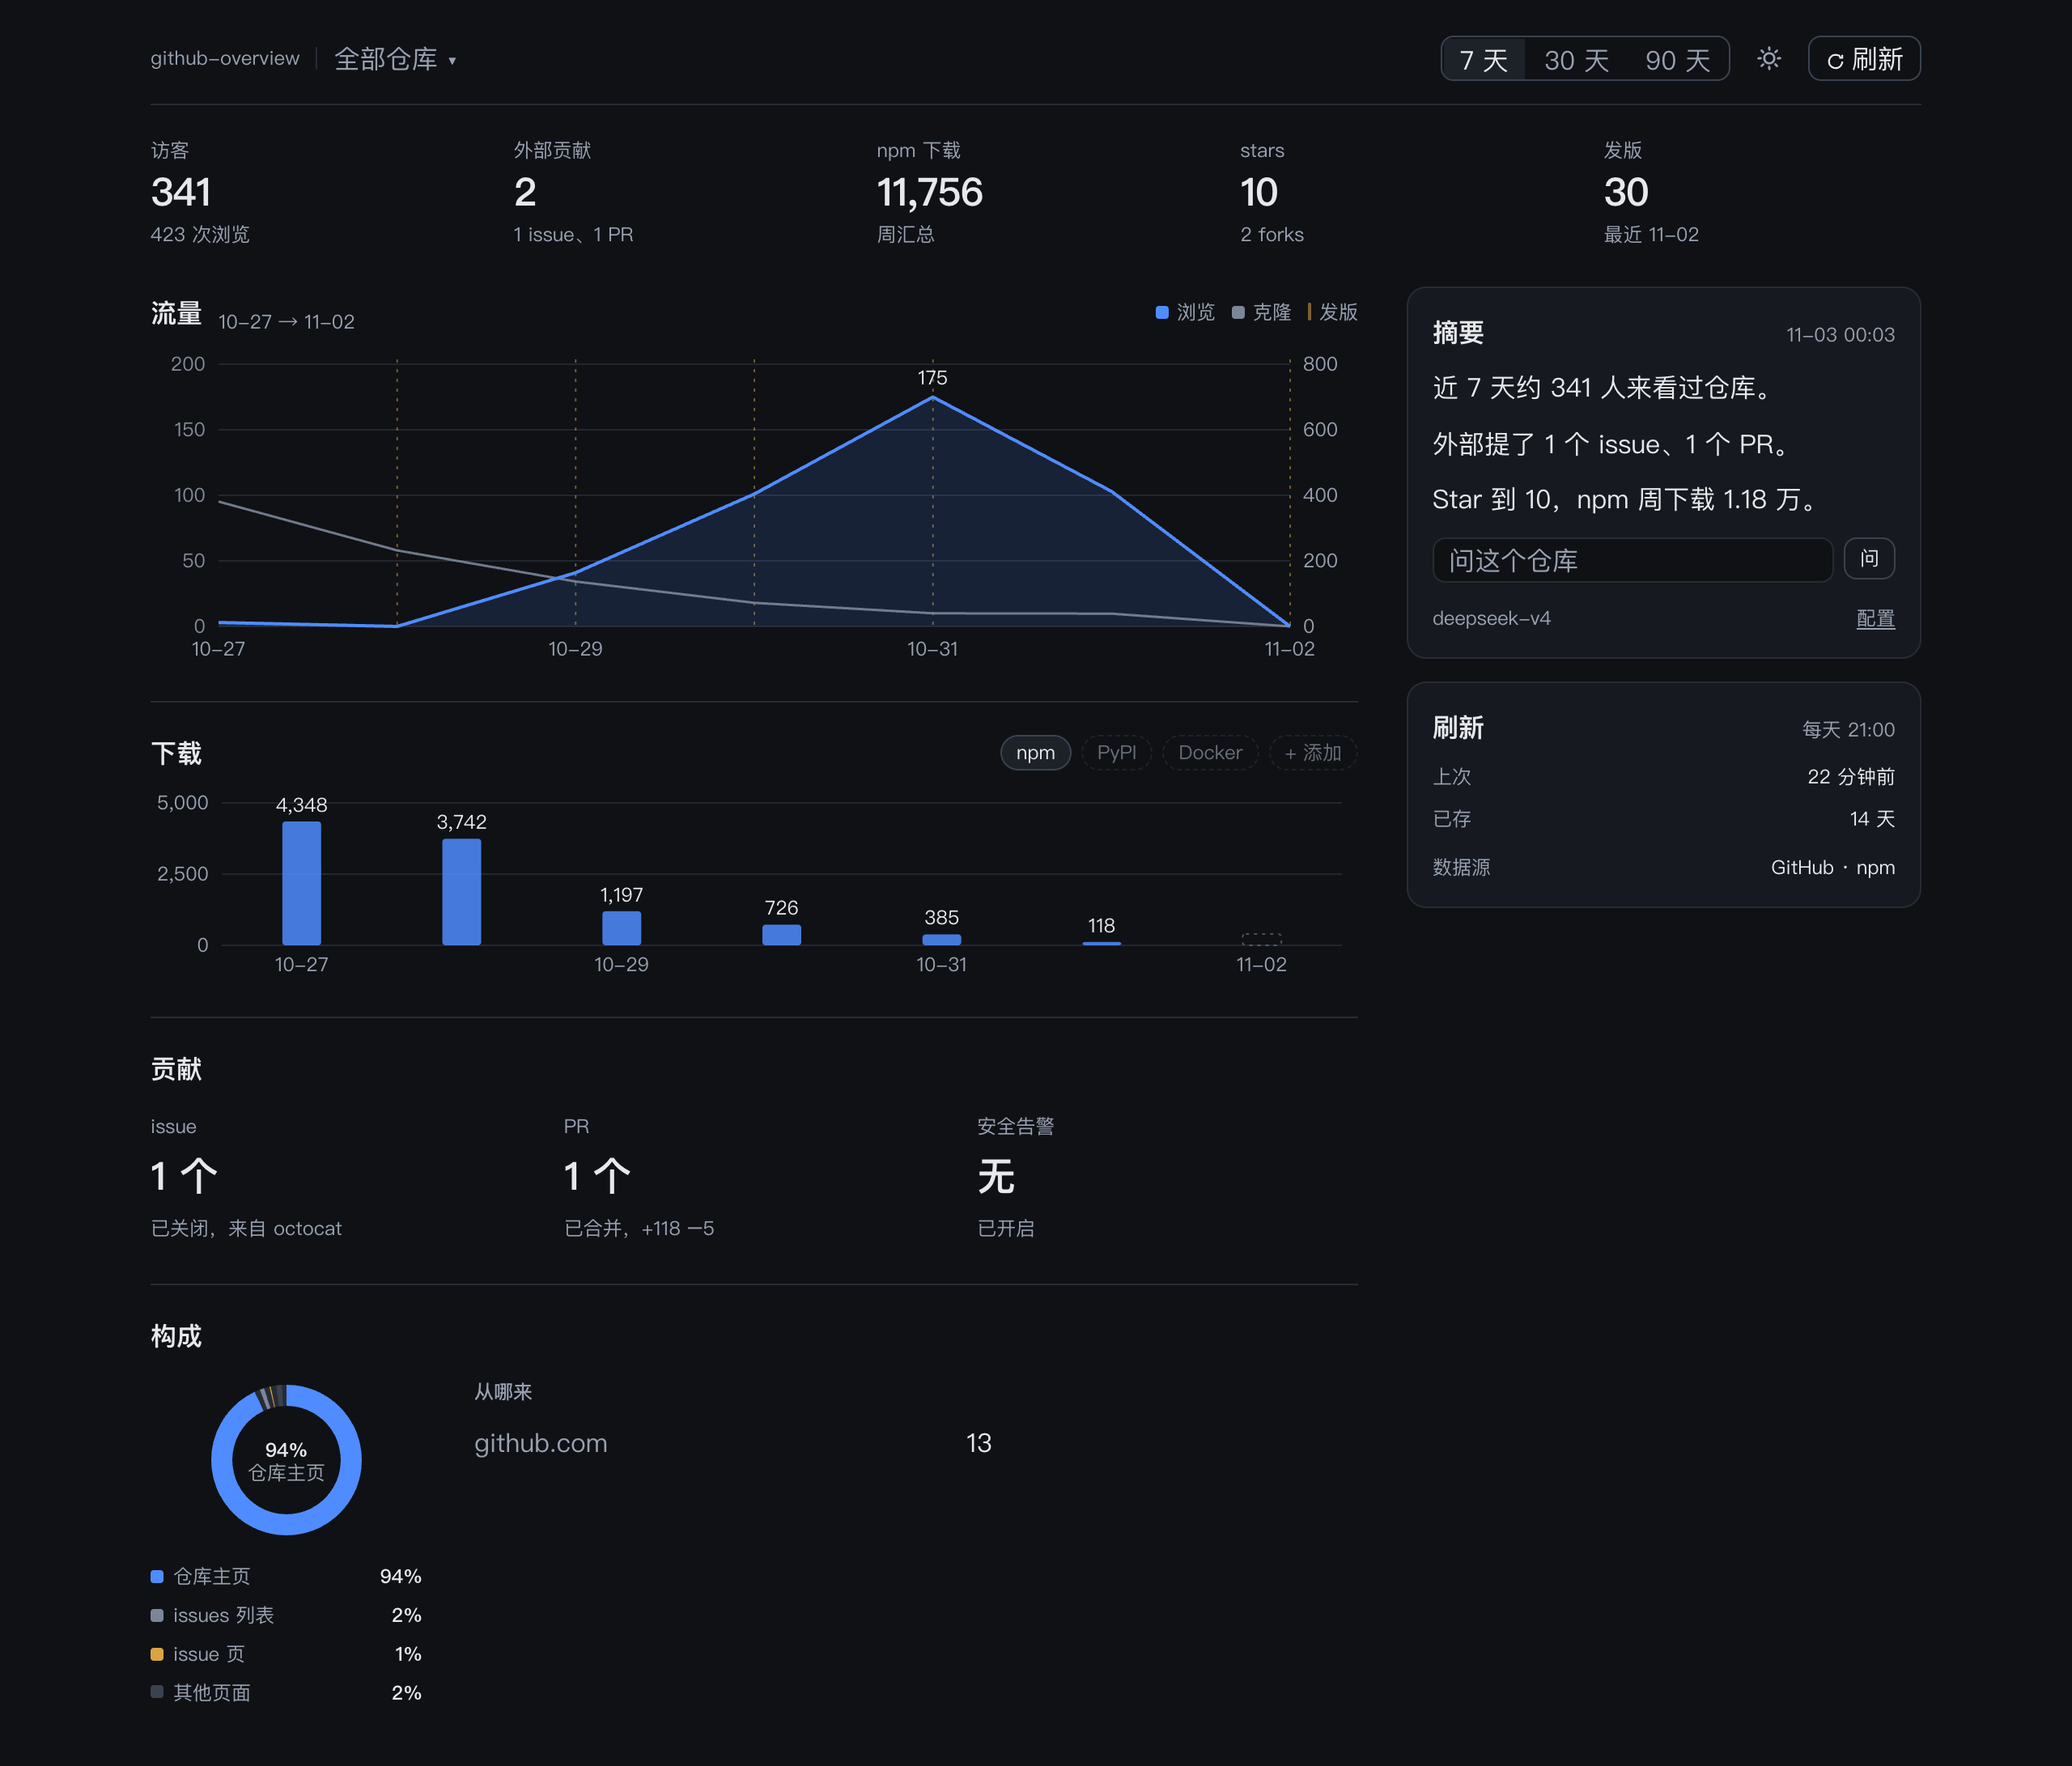
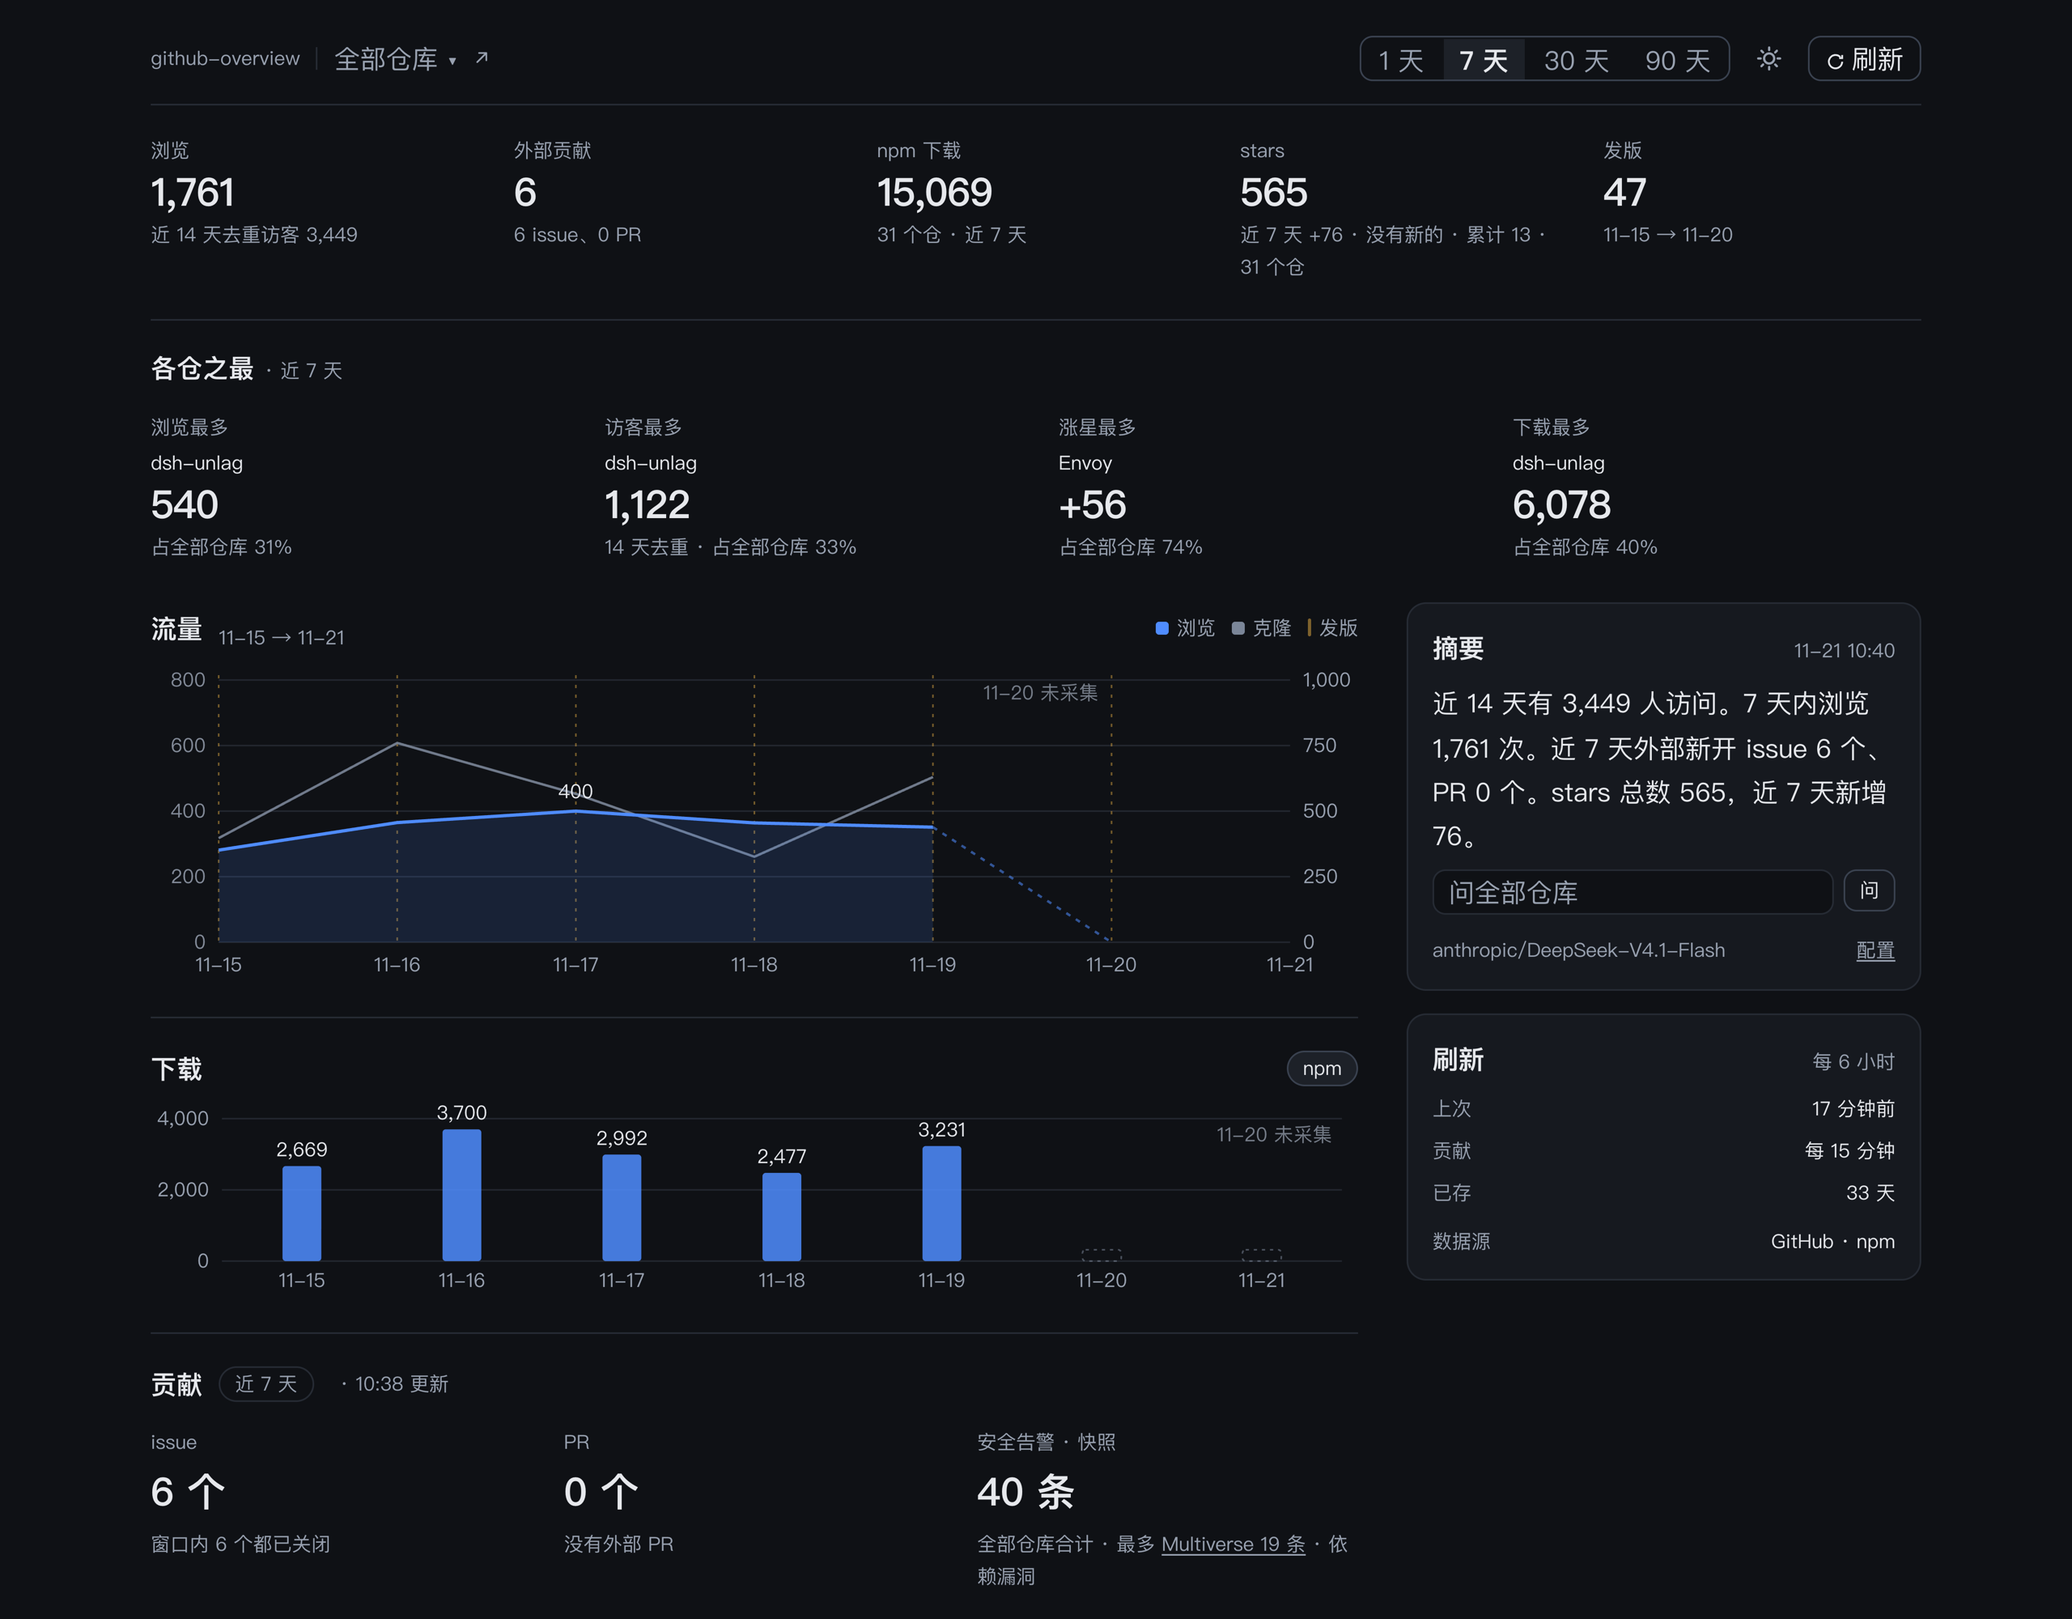
版本 0.2.11：首图换成当前界面，npm 关键词补齐，工具结果 schema 补全

diff --git a/plugin/index.js b/plugin/index.js
@@ -201,13 +201,20 @@ const definition = {
       properties: {
         ok: { type: 'boolean' },
         reason: { type: 'string' },
+        origin: { type: 'string' },
         repo: { type: 'string' },
+        repoCount: { type: 'integer' },
         days: { type: 'integer' },
         covered: { type: 'integer' },
         storedDays: { type: 'integer' },
+        first: { type: 'string' },
         totals: { type: 'object' },
         series: { type: 'array', items: { type: 'object' } },
         repos: { type: 'array', items: { type: 'object' } },
+        funnel: { type: 'object' },
+        contributions: { type: 'object' },
+        starGrowth: { type: 'object' },
+        updatedAt: { type: 'string' },
       },
     },
     render: (_args, value) => [{ type: 'text', text: card(value) }],

diff --git a/README.md b/README.md
@@ -4,7 +4,13 @@
 
 不依赖第三方统计服务，只跑一个本地 Node 进程：读你自己的 token，把数据抓下来存到本地，页面在浏览器里打开。
 
+```bash
+npx github-overview start          # 不需要先 clone，也不需要注册任何服务
+```
+
 ![dashboard](docs/screenshot-dark.png)
+
+![dashboard light](docs/screenshot-light.png)
 
 ## 第一次运行
 
